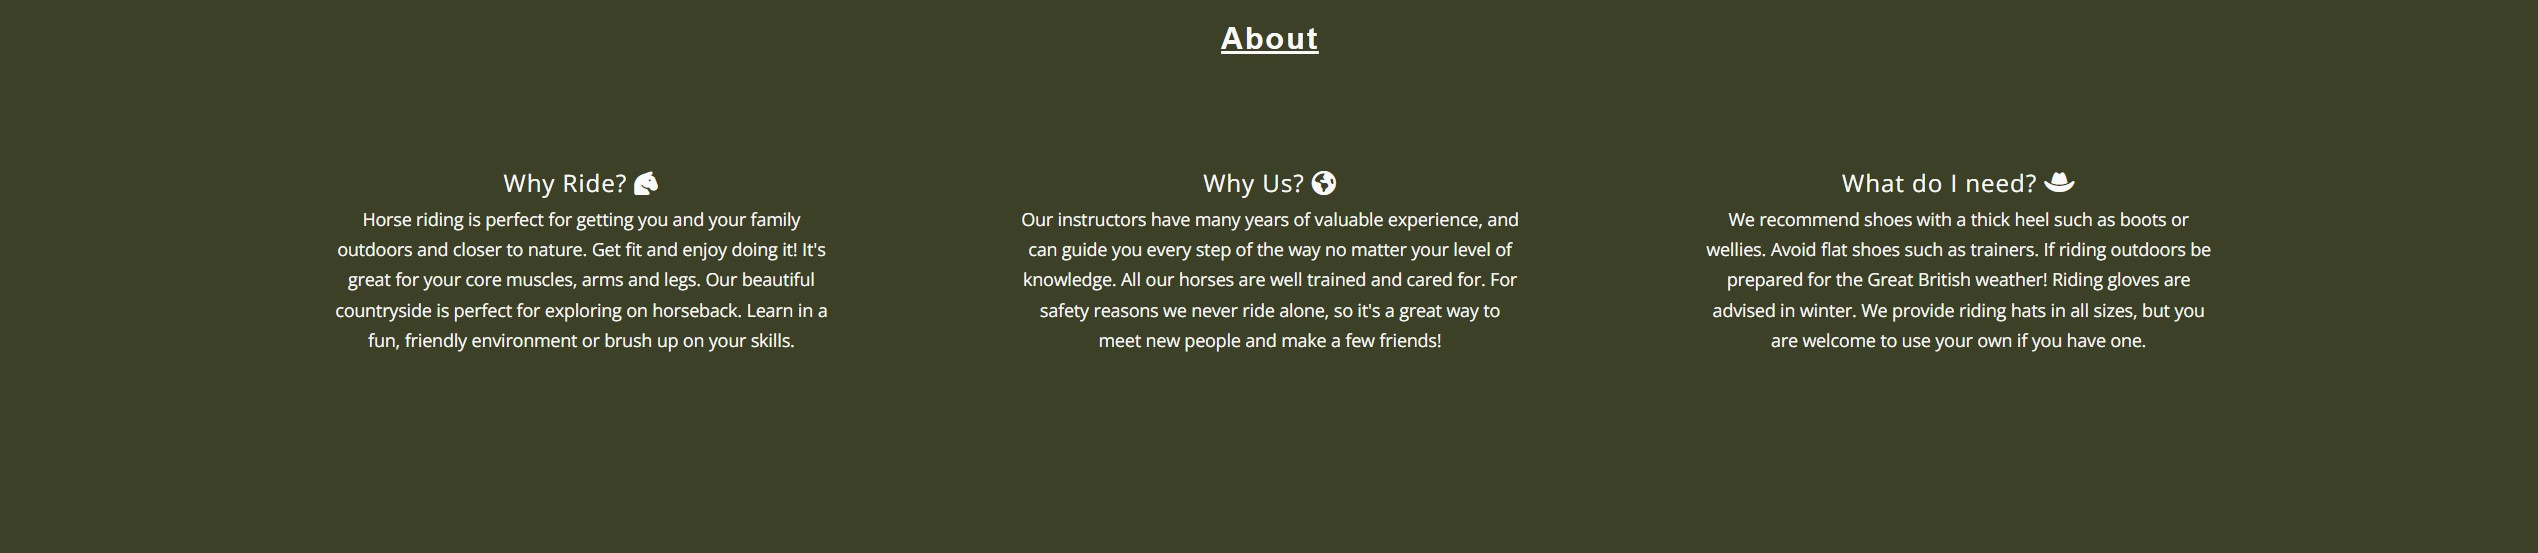
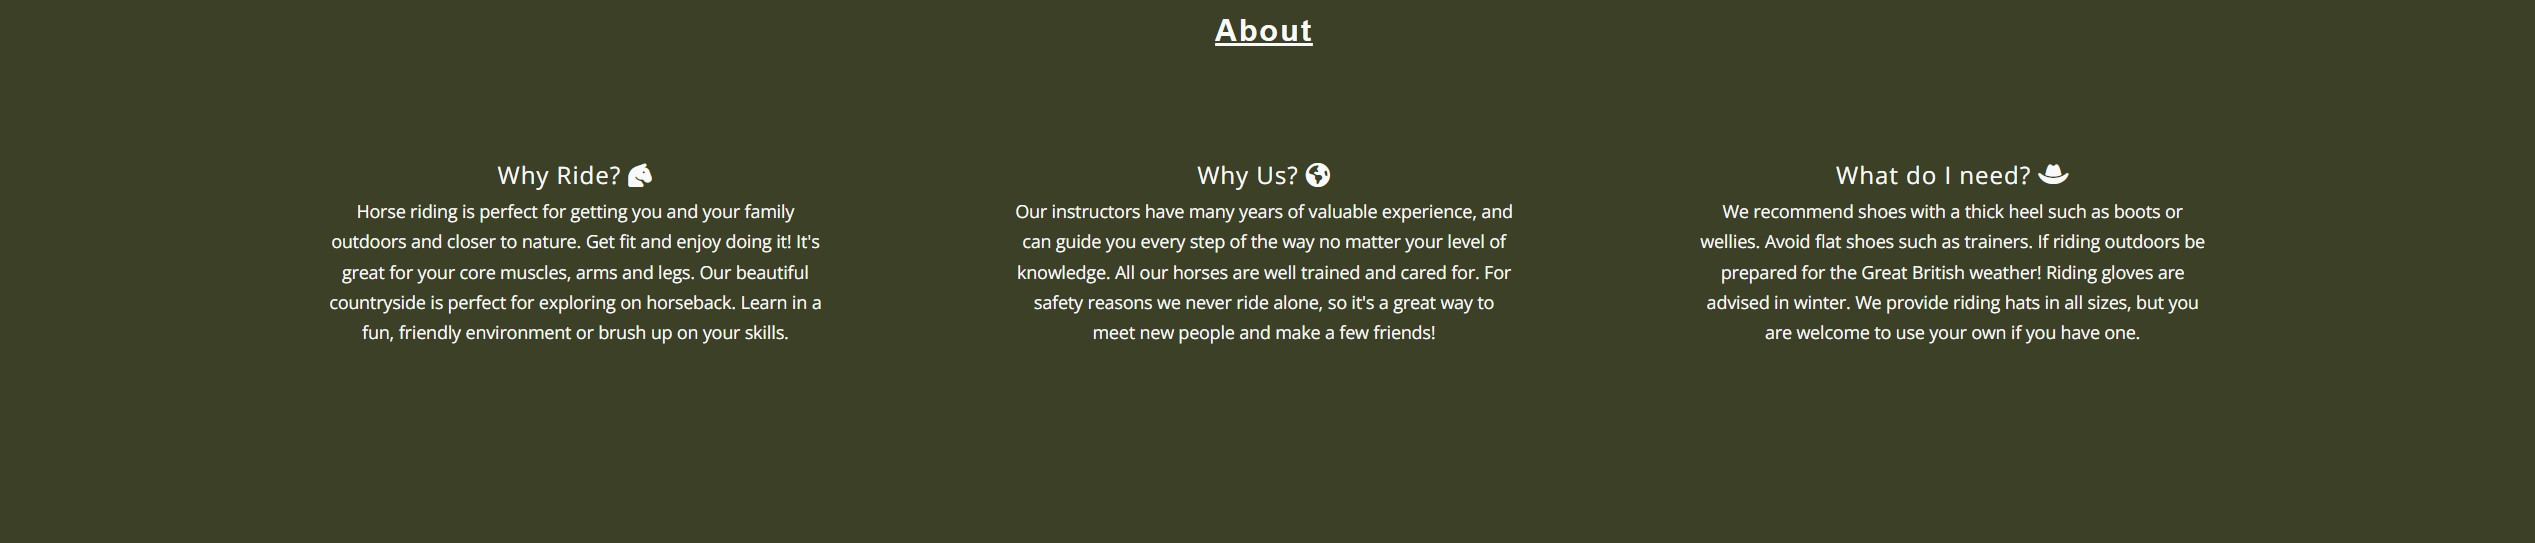
Add background color to about section be match all screen sizes.

diff --git a/assest/css/style.css b/assest/css/style.css
@@ -91,7 +91,6 @@ header {
 #hero-image {
     max-width: 100%;
     height: auto;
-    justify-content: center;
 }
 
 /* Styling for the about section elements to be an appropriate size and color */
@@ -302,9 +301,7 @@ footer {
         font-size: 120%;
     }
 
-    .about {
-        background-color: #202916;
-    }
+    
 
     .left-about, .right-about, .center-about {
         float: left;
@@ -315,6 +312,7 @@ footer {
     .left-about-text, .right-about-text, .center-about-text {
        float: left;
        width: 100%;
+       font-size: 110%;
     }
     
     .booking-form {
@@ -332,7 +330,7 @@ footer {
     .menu a:hover {
         border-bottom: none;
     }
-    
+
     .contacts {
         font-size: 130%;
     }

diff --git a/README.md b/README.md
@@ -39,7 +39,6 @@ Welcome to my first ever website! For my first ever site I wanted to choose a to
 
 - The goal of this section is to answer three main questions users might have when visiting the site for the first time: Why should I try horse riding? Why should I ride here specifically? What equipment do I need to ride? It was important not to have too much information here, as I don't want to overwhelm the user. Instead I stuck to three questions with three very short paragraphs containing the most helpful and condensed information to make it easy to read and informative. 
 - I added icons to the questions from [fontawesome.com](https://fontawesome.com/) to help make it more clear what each paragraph was going to be about and draw the users attention.
-- On smaller screen sizes such as phones the background color actually changes to match the next section under it, as I found it looked too messy and blocky with multiple different background colors on a smaller screen. It helps the flow of the page.
 
 ### Rides Section
 
